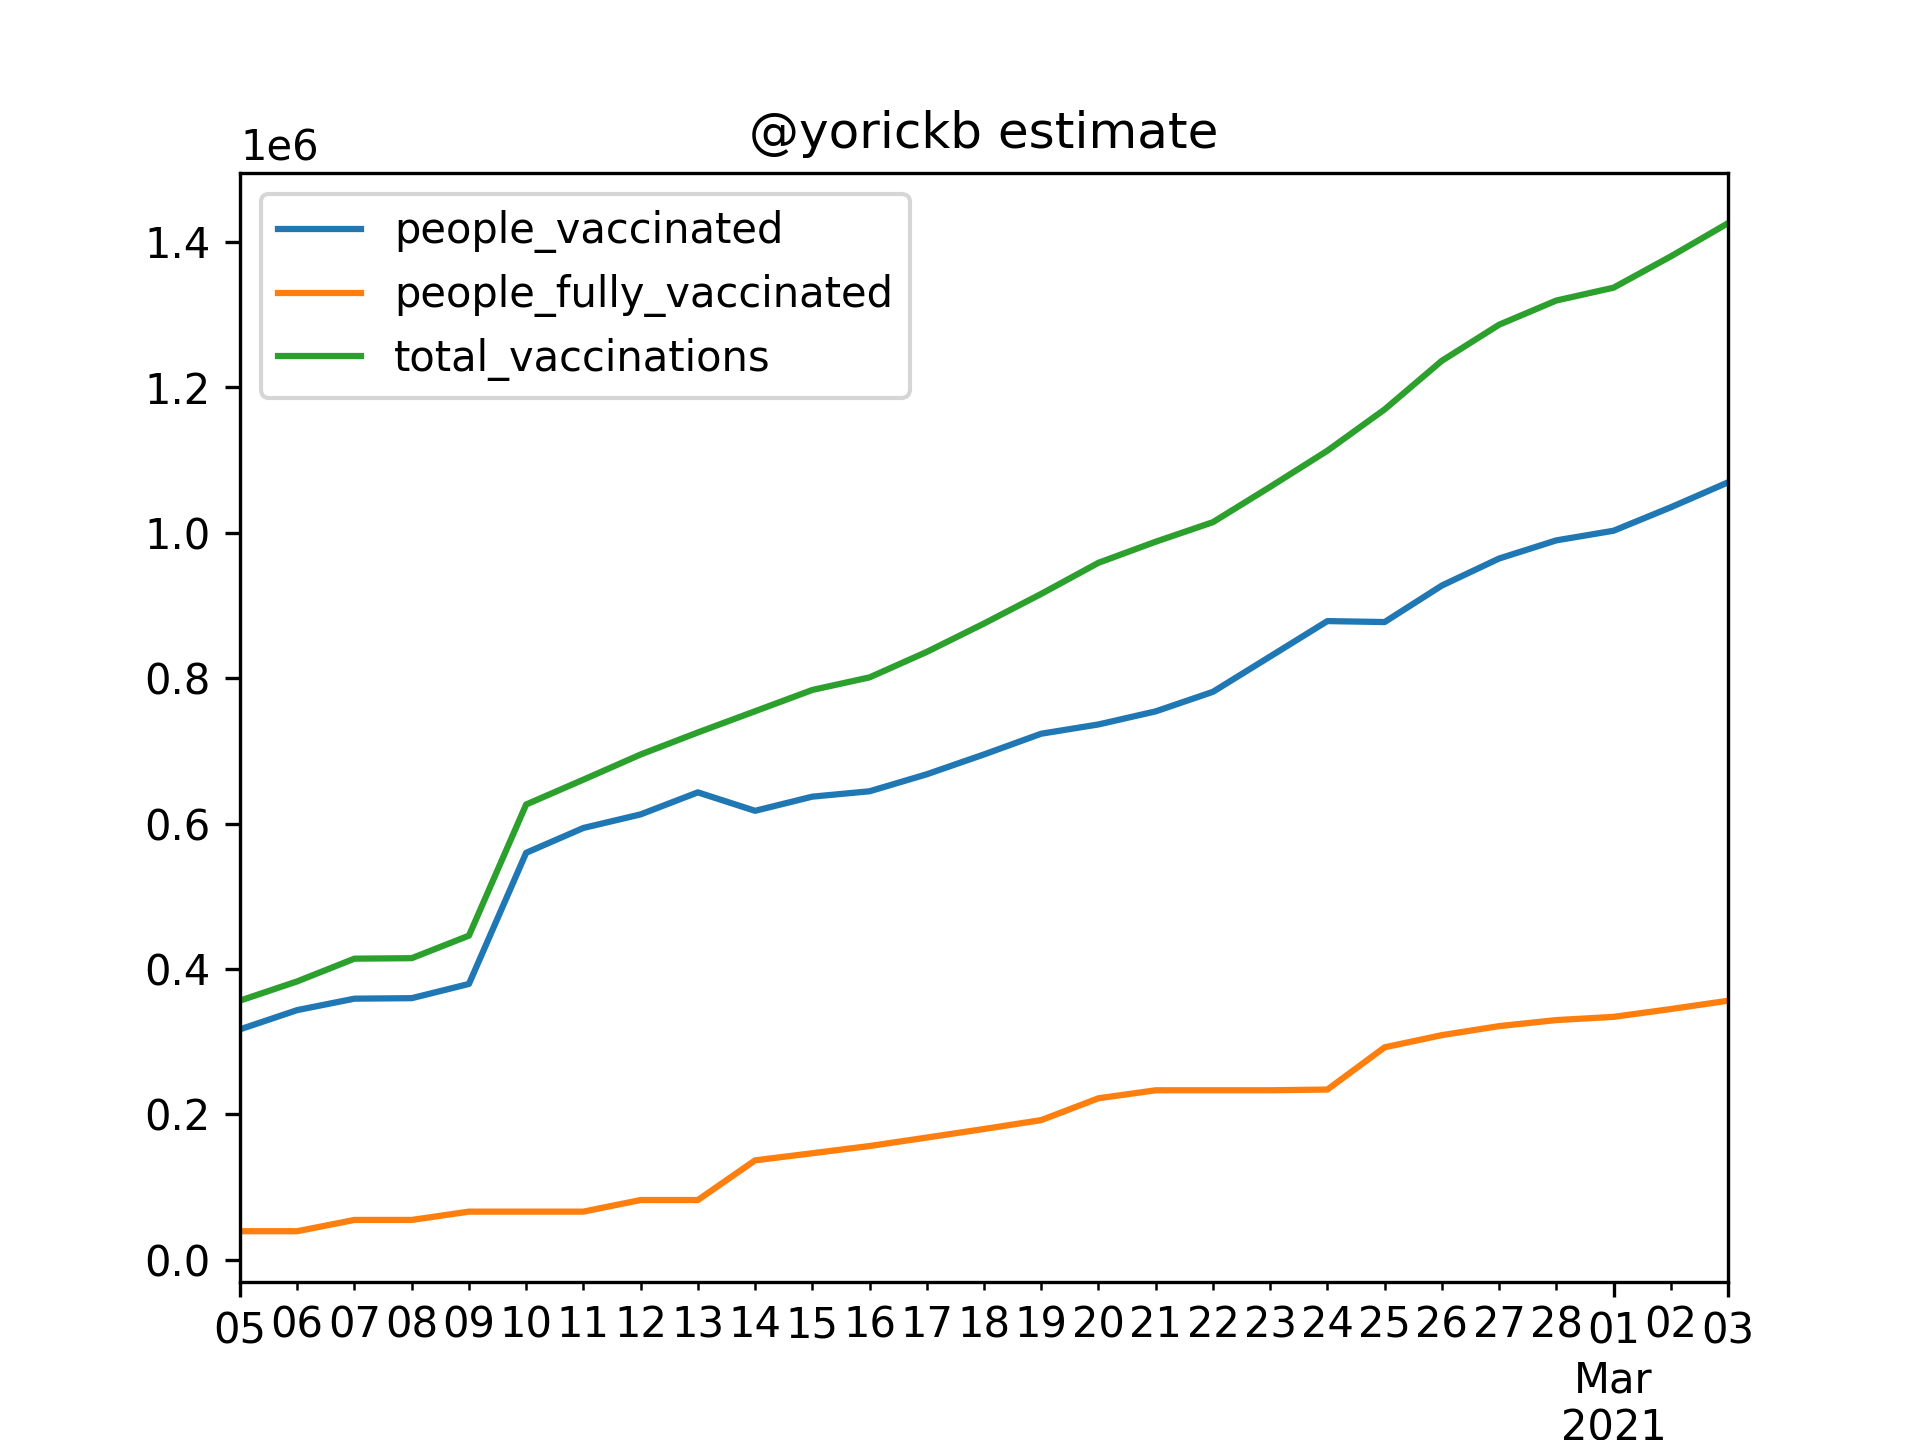
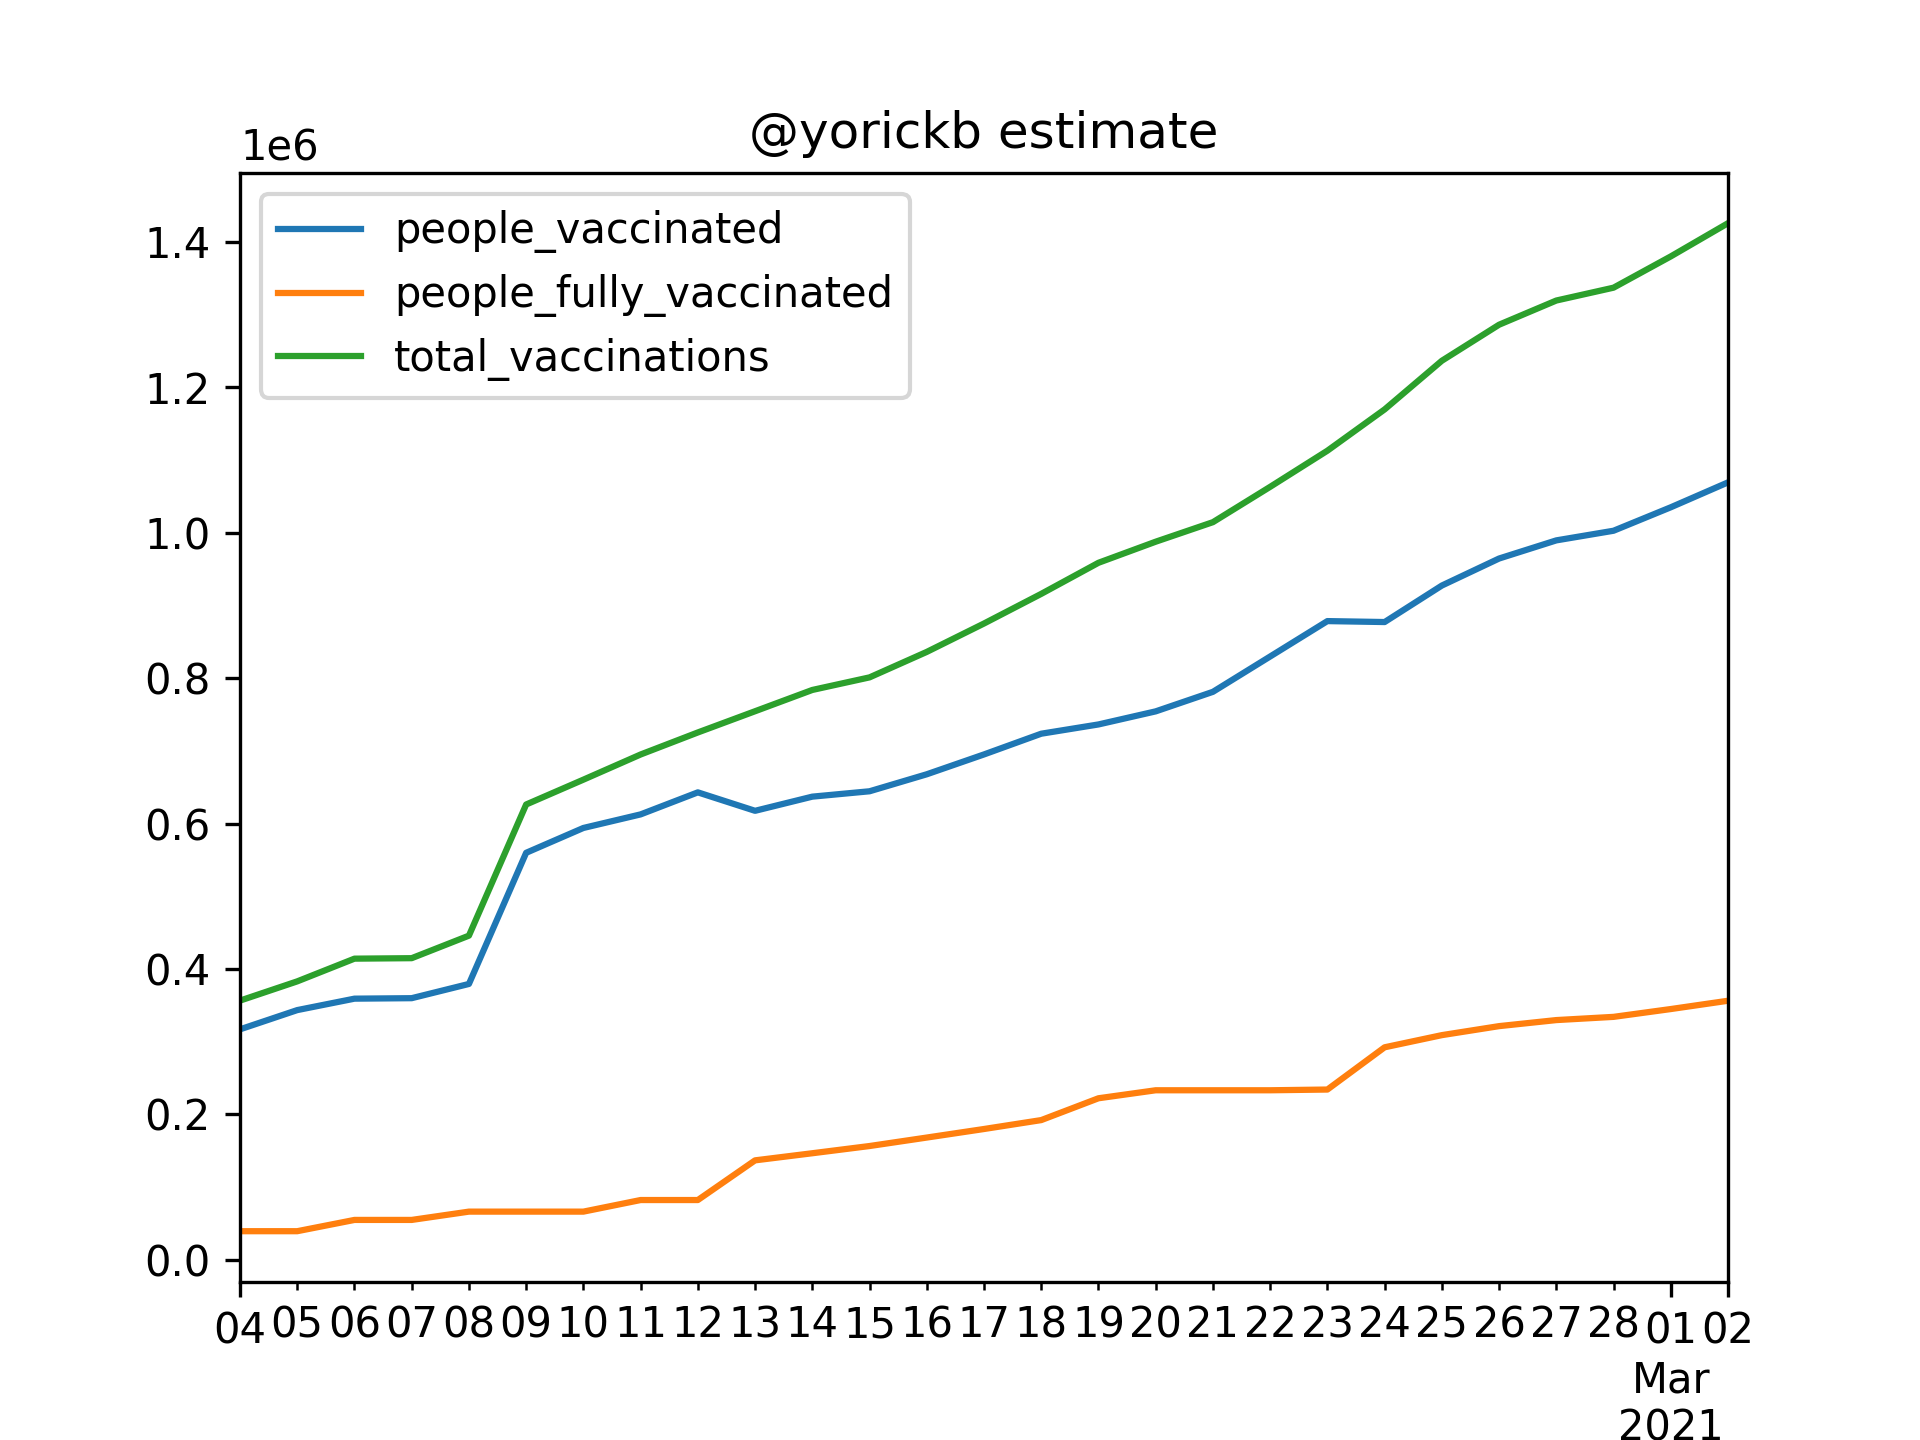
Bugfix

Changed region(s): [[0.125, 0.9062, 0.6562, 0.9375], [0.6875, 0.9062, 0.9062, 1.0]]

diff --git a/src/scrapers/yorickb.py b/src/scrapers/yorickb.py
@@ -30,6 +30,7 @@ df_estimates = df_estimates.sort_index().resample('D').last()
 
 df_estimates['total_vaccinations'] = df_estimates.sum(axis=1)
 df_estimates = df_estimates.astype(pd.Int64Dtype())
+df_estimates.index = df_estimates.index - pd.Timedelta(days=1)
 
 outdir = Path('data/models')
 outfile = outdir / 'yorickb.csv'
